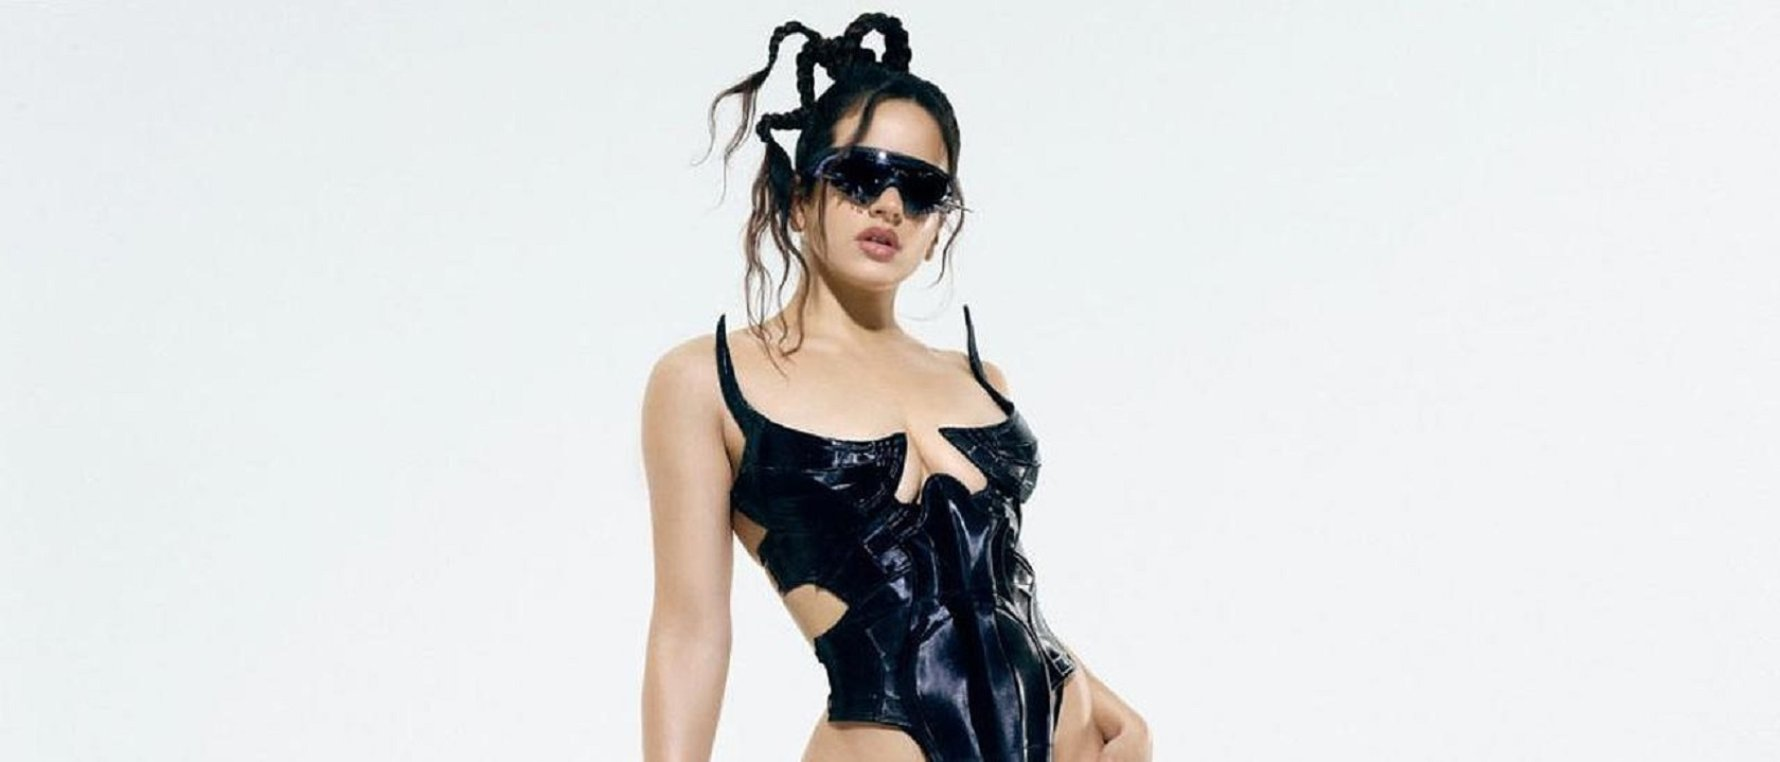
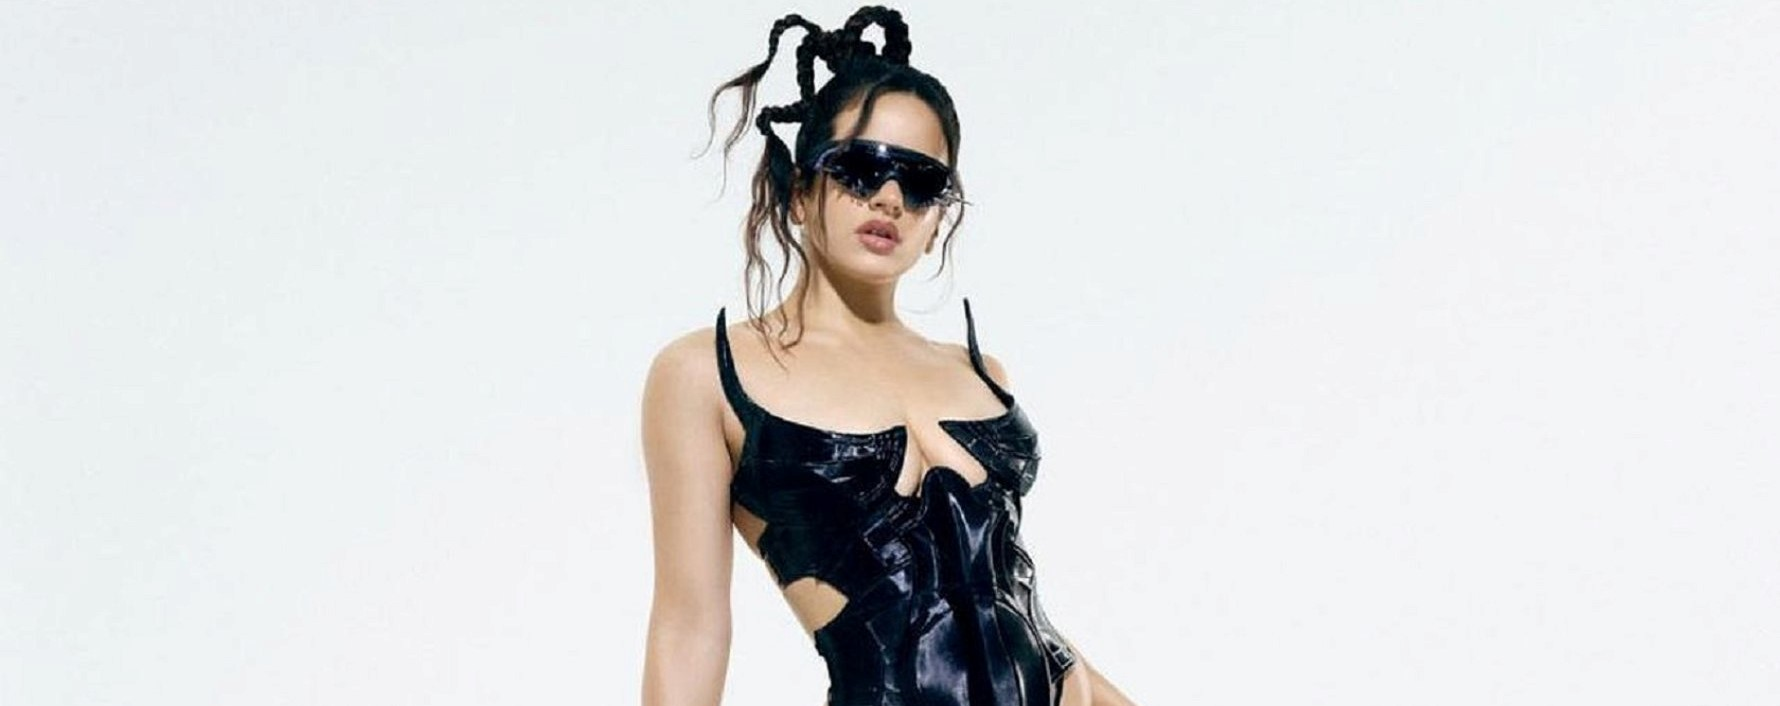
#

diff --git a/resources/js/components/Home.vue b/resources/js/components/Home.vue
@@ -7,21 +7,21 @@
   </div>
   <div class="carousel-inner">
     <div class="carousel-item active">
-      <img src="../../img/car1.jpg" class="d-block w-100" style="height: 550px;" alt="...">
+      <img src="../../img/car1.jpg" class="d-block w-100"  alt="...">
       <div class="carousel-caption d-none d-md-block">
         <h5>Etiqueta de la primera diapositiva</h5>
         <p>Algún contenido placeholder representativo para la primera diapositiva.</p>
       </div>
     </div>
     <div class="carousel-item">
-      <img src="../../img/car2.jpg" class="d-block w-100" style="height: 550px;" alt="...">
+      <img src="../../img/car2.jpg" class="d-block w-100"  alt="...">
       <div class="carousel-caption d-none d-md-block">
         <h5>Etiqueta de la segunda diapositiva</h5>
         <p>Algún contenido placeholder representativo para la segunda diapositiva.</p>
       </div>
     </div>
     <div class="carousel-item">
-      <img src="../../img/car3.jpg" class="d-block w-100" style="height: 550px;" alt="...">
+      <img src="../../img/car3.jpg" class="d-block w-100"  alt="...">
       <div class="carousel-caption d-none d-md-block">
         <h5>Etiqueta de la tercera diapositiva</h5>
         <p>Algún contenido placeholder representativo para la tercera diapositiva.</p>
